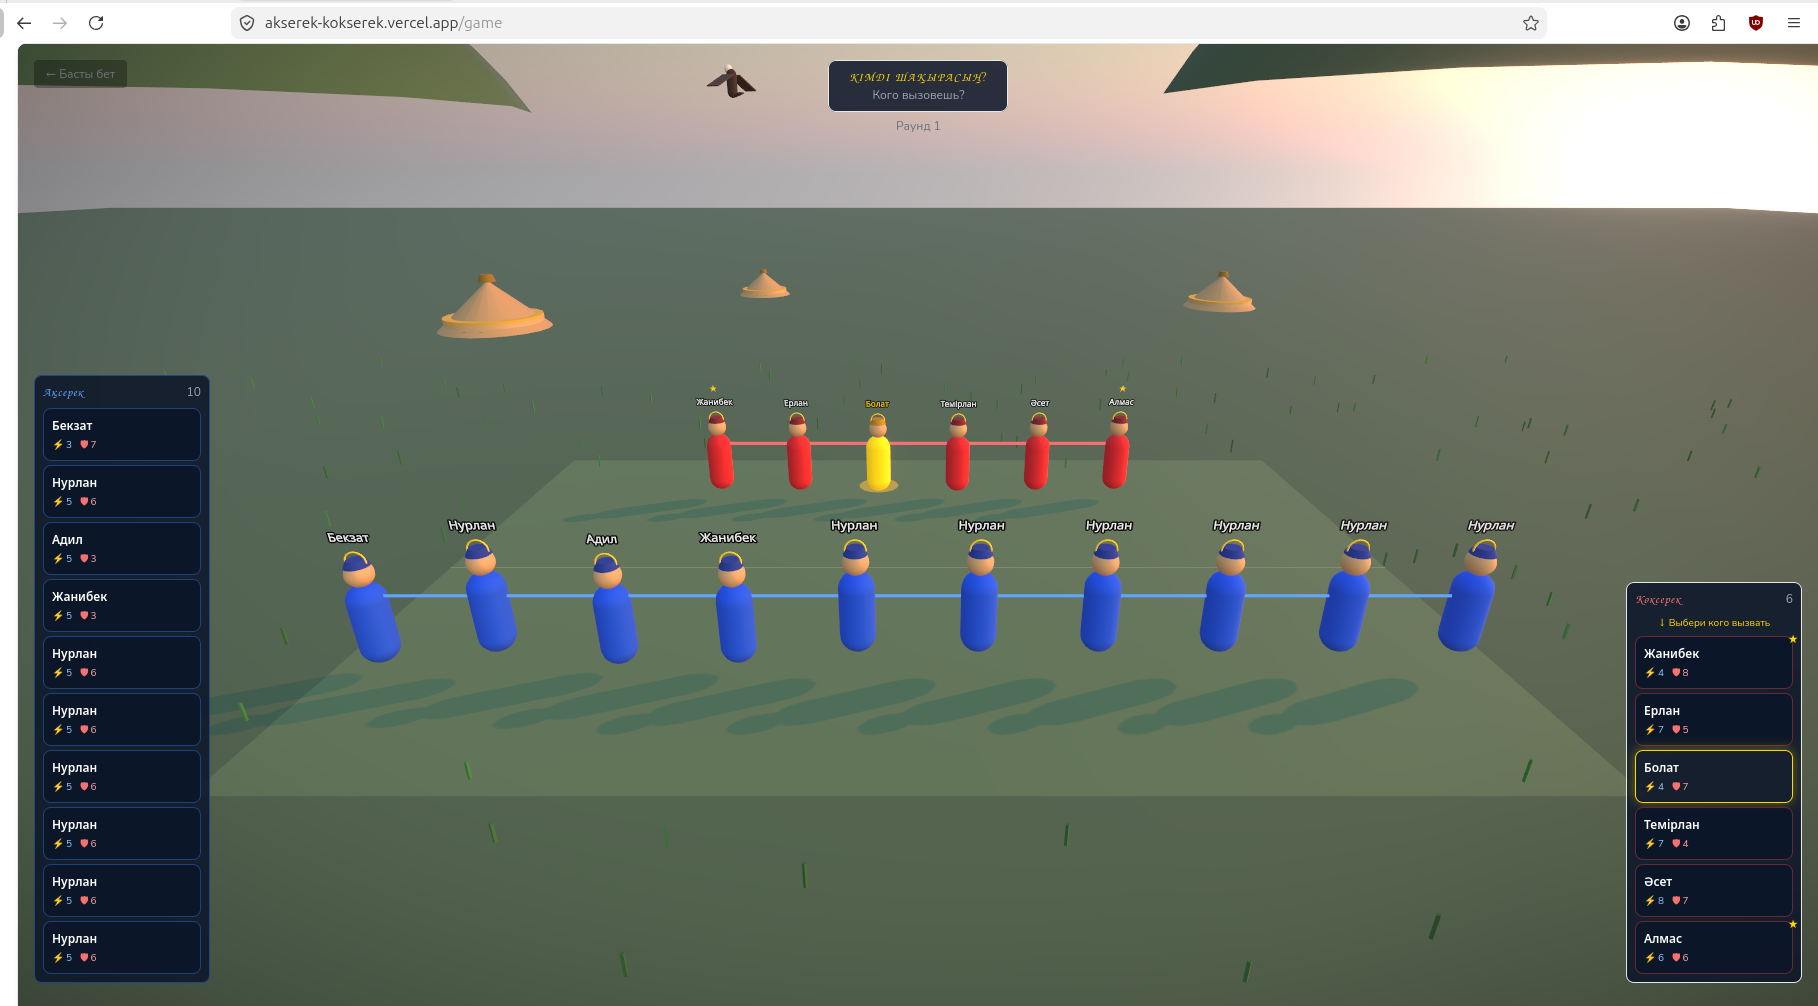
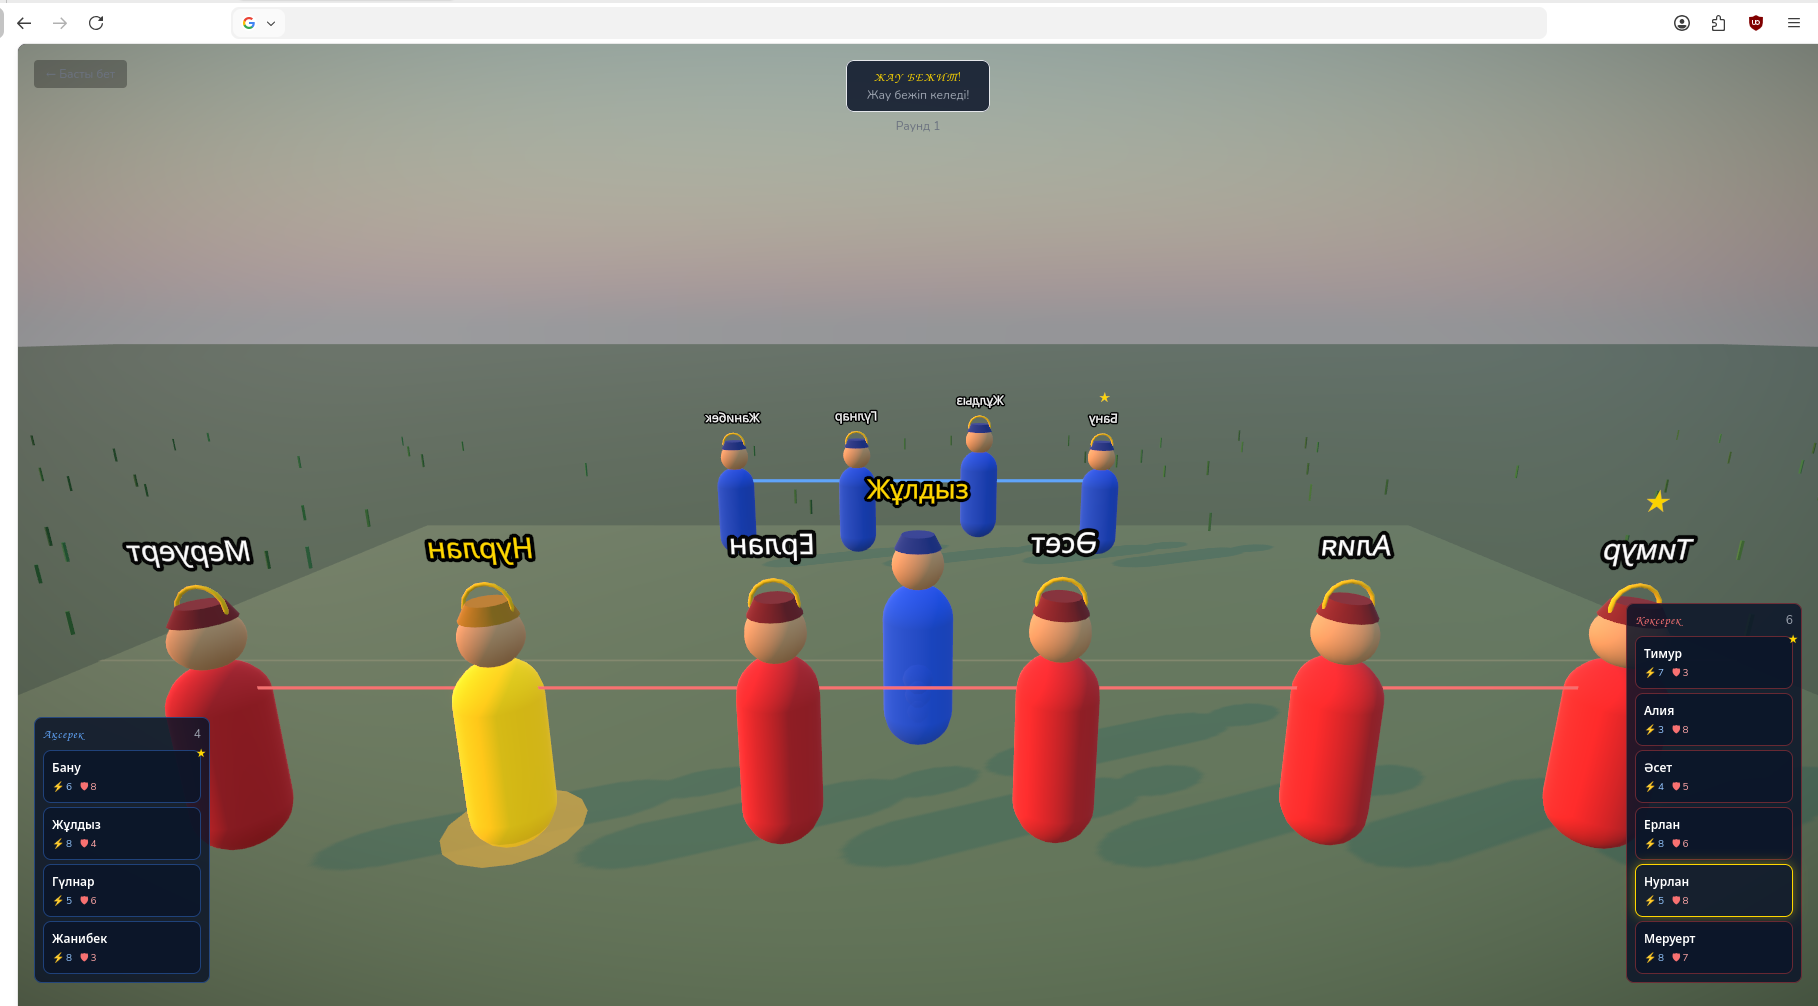
feat: animated runner, chain break effect, billboard names (no mirroring)

diff --git a/components/scene/Chain.tsx b/components/scene/Chain.tsx
@@ -1,34 +1,87 @@
 'use client'
 
-import { useMemo } from 'react'
+import { useMemo, useRef } from 'react'
+import { useFrame } from '@react-three/fiber'
 import { Line } from '@react-three/drei'
 import * as THREE from 'three'
-import { Team } from '@/lib/store/types'
+import { Team, Player } from '@/lib/store/types'
 
 interface ChainProps {
   team: Team
   zOffset: number
+  brokenBetween?: { left: Player; right: Player }  // разрыв между этими двумя
+  isBroken?: boolean  // фаза RESULT + success
 }
 
-export default function Chain({ team, zOffset }: ChainProps) {
-  const points = useMemo(() => {
-    const count = team.players.length
-    return team.players.map((_, i) => {
+function ChainFlash({ x, z }: { x: number; z: number }) {
+  const ref = useRef<THREE.Mesh>(null)
+  useFrame((state) => {
+    if (!ref.current) return
+    const t = state.clock.elapsedTime * 8
+    ref.current.scale.setScalar(1 + Math.sin(t) * 0.4)
+    ;(ref.current.material as THREE.MeshStandardMaterial).opacity = 0.5 + Math.sin(t) * 0.4
+  })
+  return (
+    <mesh ref={ref} position={[x, 0.5, z]}>
+      <sphereGeometry args={[0.35, 10, 10]} />
+      <meshStandardMaterial color="#ffd700" emissive="#ffd700" emissiveIntensity={2} transparent opacity={0.8} />
+    </mesh>
+  )
+}
+
+export default function Chain({ team, zOffset, brokenBetween, isBroken }: ChainProps) {
+  const count = team.players.length
+
+  const allPoints = useMemo(() =>
+    team.players.map((_, i) => {
       const x = (i - (count - 1) / 2) * 2
       return new THREE.Vector3(x, 0.5, zOffset)
-    })
-  }, [team.players, zOffset])
+    }),
+    [team.players, count, zOffset]
+  )
 
-  if (points.length < 2) return null
+  if (allPoints.length < 2) return null
 
   const lineColor = team.color === 'blue' ? '#60a5fa' : '#f87171'
 
+  // Находим индекс разрыва
+  let breakIdx = -1
+  if (isBroken && brokenBetween) {
+    const li = team.players.findIndex(p => p.id === brokenBetween.left.id)
+    const ri = team.players.findIndex(p => p.id === brokenBetween.right.id)
+    if (li !== -1 && ri !== -1) {
+      breakIdx = Math.min(li, ri)
+    }
+  }
+
+  // Если нет разрыва — рисуем одну линию
+  if (breakIdx === -1) {
+    return (
+      <Line
+        points={allPoints}
+        color={lineColor}
+        lineWidth={3}
+        dashed={false}
+      />
+    )
+  }
+
+  // Если разрыв — левая часть, правая часть, и вспышка посередине
+  const leftPoints = allPoints.slice(0, breakIdx + 1)
+  const rightPoints = allPoints.slice(breakIdx + 1)
+
+  const gapX = (allPoints[breakIdx].x + allPoints[breakIdx + 1].x) / 2
+
   return (
-    <Line
-      points={points}
-      color={lineColor}
-      lineWidth={3}
-      dashed={false}
-    />
+    <>
+      {leftPoints.length >= 2 && (
+        <Line points={leftPoints} color={lineColor} lineWidth={3} />
+      )}
+      {rightPoints.length >= 2 && (
+        <Line points={rightPoints} color={lineColor} lineWidth={3} />
+      )}
+      {/* Вспышка в точке разрыва */}
+      <ChainFlash x={gapX} z={zOffset} />
+    </>
   )
 }

diff --git a/components/scene/Runner.tsx b/components/scene/Runner.tsx
@@ -1,31 +1,42 @@
 'use client'
 
-import { useRef, useEffect } from 'react'
+import { useRef } from 'react'
 import { useFrame } from '@react-three/fiber'
-import { Text } from '@react-three/drei'
+import { Text, Billboard } from '@react-three/drei'
 import * as THREE from 'three'
 import { Player as PlayerType } from '@/lib/store/types'
 
 interface RunnerProps {
   runner: PlayerType
-  targetZ: number  // Z позиция цепи противника
-  progress: number  // 0..1 — как далеко добежал
+  targetZ: number
 }
 
-export default function Runner({ runner, targetZ, progress }: RunnerProps) {
+export default function Runner({ runner, targetZ }: RunnerProps) {
   const groupRef = useRef<THREE.Group>(null)
+  const progressRef = useRef(0)
+
   const startZ = runner.team === 'blue' ? 4 : -4
   const color = runner.team === 'blue' ? '#1a56db' : '#e02424'
   const hatColor = runner.team === 'blue' ? '#1e3a8a' : '#7f1d1d'
+  const direction = runner.team === 'blue' ? -1 : 1  // blue бежит к -z, red к +z
 
-  useFrame((state) => {
+  useFrame((state, delta) => {
     if (!groupRef.current) return
-    // Позиция по Z — от своей линии к цепи противника
-    const currentZ = THREE.MathUtils.lerp(startZ, targetZ, progress)
+
+    // Плавно разгоняемся: прогресс 0→0.92 за ~1.5 сек
+    progressRef.current = Math.min(progressRef.current + delta * 0.65, 0.92)
+    const p = progressRef.current
+
+    const currentZ = THREE.MathUtils.lerp(startZ, targetZ, p)
     groupRef.current.position.z = currentZ
-    // Прыжки при беге
-    groupRef.current.position.y = Math.abs(Math.sin(state.clock.elapsedTime * 9)) * 0.35
-    // Поворот в сторону движения
+
+    // Прыжки — частота зависит от скорости (kush)
+    const freq = 6 + runner.kush * 0.5
+    groupRef.current.position.y = Math.abs(Math.sin(state.clock.elapsedTime * freq)) * 0.4
+
+    // Наклон вперёд при беге
+    groupRef.current.rotation.x = direction * -0.15
+    // Поворот лицом к противнику
     groupRef.current.rotation.y = runner.team === 'blue' ? Math.PI : 0
   })
 
@@ -34,7 +45,7 @@ export default function Runner({ runner, targetZ, progress }: RunnerProps) {
       {/* Тело */}
       <mesh castShadow>
         <capsuleGeometry args={[0.3, 0.85, 8, 16]} />
-        <meshStandardMaterial color={color} emissive={color} emissiveIntensity={0.15} />
+        <meshStandardMaterial color={color} emissive={color} emissiveIntensity={0.2} />
       </mesh>
       {/* Голова */}
       <mesh position={[0, 0.9, 0]} castShadow>
@@ -46,29 +57,33 @@ export default function Runner({ runner, targetZ, progress }: RunnerProps) {
         <cylinderGeometry args={[0.14, 0.2, 0.12, 16]} />
         <meshStandardMaterial color={hatColor} />
       </mesh>
-      {/* Имя */}
-      <Text
-        position={[0, 1.55, 0]}
-        fontSize={0.22}
-        color="#ffd700"
-        anchorX="center"
-        anchorY="middle"
-        outlineWidth={0.03}
-        outlineColor="#000000"
-      >
-        {runner.name}
-      </Text>
-      {/* След (частицы скорости) */}
-      {[0.3, 0.6, 0.9].map((offset, i) => (
+
+      {/* Имя — Billboard всегда смотрит на камеру, никогда не зеркалится */}
+      <Billboard follow lockX={false} lockY lockZ={false}>
+        <Text
+          position={[0, 1.6, 0]}
+          fontSize={0.22}
+          color="#ffd700"
+          anchorX="center"
+          anchorY="middle"
+          outlineWidth={0.03}
+          outlineColor="#000000"
+        >
+          {runner.name}
+        </Text>
+      </Billboard>
+
+      {/* Следы скорости */}
+      {[0.35, 0.65, 0.95].map((offset, i) => (
         <mesh
           key={i}
-          position={[0, 0, runner.team === 'blue' ? offset : -offset]}
-          scale={1 - offset * 0.5}
+          position={[0, 0.1, direction * offset * -1]}
+          scale={1 - offset * 0.4}
         >
-          <sphereGeometry args={[0.15, 6, 6]} />
+          <sphereGeometry args={[0.12, 6, 6]} />
           <meshStandardMaterial
             color={color}
-            opacity={0.3 - offset * 0.25}
+            opacity={0.25 - i * 0.08}
             transparent
           />
         </mesh>

diff --git a/components/scene/Player.tsx b/components/scene/Player.tsx
@@ -2,7 +2,7 @@
 
 import { useRef } from 'react'
 import { useFrame } from '@react-three/fiber'
-import { Text } from '@react-three/drei'
+import { Text, Billboard } from '@react-three/drei'
 import * as THREE from 'three'
 import { Player as PlayerType } from '@/lib/store/types'
 
@@ -65,31 +65,31 @@ export default function Player({ player, isHighlighted, isRunner, onClick }: Pla
         <meshStandardMaterial color={isHighlighted ? '#ffd700' : '#ffd700'} />
       </mesh>
 
-      {/* Имя над головой */}
-      <Text
-        position={[0, 1.55, 0]}
-        fontSize={0.2}
-        color={isHighlighted ? '#ffd700' : 'white'}
-        anchorX="center"
-        anchorY="middle"
-        outlineWidth={0.03}
-        outlineColor="#000000"
-      >
-        {player.name}
-      </Text>
-
-      {/* Индикатор капитана */}
-      {player.isCaptain && (
+      {/* Имя + звезда капитана — Billboard всегда смотрит на камеру */}
+      <Billboard follow lockX={false} lockY lockZ={false}>
         <Text
-          position={[0, 1.85, 0]}
-          fontSize={0.18}
-          color="#ffd700"
+          position={[0, 1.55, 0]}
+          fontSize={0.2}
+          color={isHighlighted ? '#ffd700' : 'white'}
           anchorX="center"
           anchorY="middle"
+          outlineWidth={0.03}
+          outlineColor="#000000"
         >
-          ★
+          {player.name}
         </Text>
-      )}
+        {player.isCaptain && (
+          <Text
+            position={[0, 1.85, 0]}
+            fontSize={0.18}
+            color="#ffd700"
+            anchorX="center"
+            anchorY="middle"
+          >
+            ★
+          </Text>
+        )}
+      </Billboard>
 
       {/* Подсветка снизу при выделении */}
       {isHighlighted && (

diff --git a/components/scene/GameScene.tsx b/components/scene/GameScene.tsx
@@ -28,9 +28,11 @@ import { useGameLoop } from '@/lib/game/useGameLoop'
 // ─── 3D Сцена ────────────────────────────────────────────────────────────────
 
 function SceneContent() {
-  const { phase, playerTeam, enemyTeam, currentRunner, currentTarget } = useGameStore()
+  const { phase, playerTeam, enemyTeam, currentRunner, currentTarget, lastResult } = useGameStore()
 
-  const runnerProgress = phase === 'PLAYER_RUNS' || phase === 'ENEMY_RUNS' ? 0.85 : 0
+  const isRunning = phase === 'PLAYER_RUNS' || phase === 'ENEMY_RUNS'
+  const isResult  = phase === 'RESULT'
+  const chainBroken = isResult && !!lastResult?.success
 
   return (
     <>
@@ -69,7 +71,12 @@ function SceneContent() {
       {playerTeam.players.length > 0 && (
         <>
           <PlayerRow team={playerTeam} zOffset={4} runnerId={currentRunner?.team === 'blue' ? currentRunner?.id : undefined} />
-          <Chain team={playerTeam} zOffset={4} />
+          <Chain
+            team={playerTeam}
+            zOffset={4}
+            brokenBetween={currentRunner?.team === 'red' && chainBroken ? currentTarget ?? undefined : undefined}
+            isBroken={currentRunner?.team === 'red' && chainBroken}
+          />
         </>
       )}
 
@@ -81,16 +88,20 @@ function SceneContent() {
             highlightedId={currentTarget?.left.id}
             runnerId={currentRunner?.team === 'red' ? currentRunner?.id : undefined}
           />
-          <Chain team={enemyTeam} zOffset={-4} />
+          <Chain
+            team={enemyTeam}
+            zOffset={-4}
+            brokenBetween={currentRunner?.team === 'blue' && chainBroken ? currentTarget ?? undefined : undefined}
+            isBroken={currentRunner?.team === 'blue' && chainBroken}
+          />
         </>
       )}
 
       {/* Бегун в движении */}
-      {currentRunner && (phase === 'PLAYER_RUNS' || phase === 'ENEMY_RUNS') && (
+      {currentRunner && isRunning && (
         <Runner
           runner={currentRunner}
           targetZ={currentRunner.team === 'blue' ? -4 : 4}
-          progress={runnerProgress}
         />
       )}
 